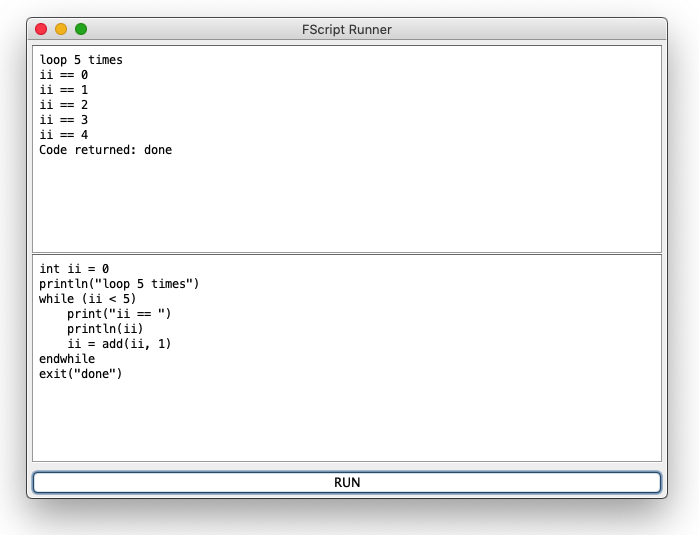
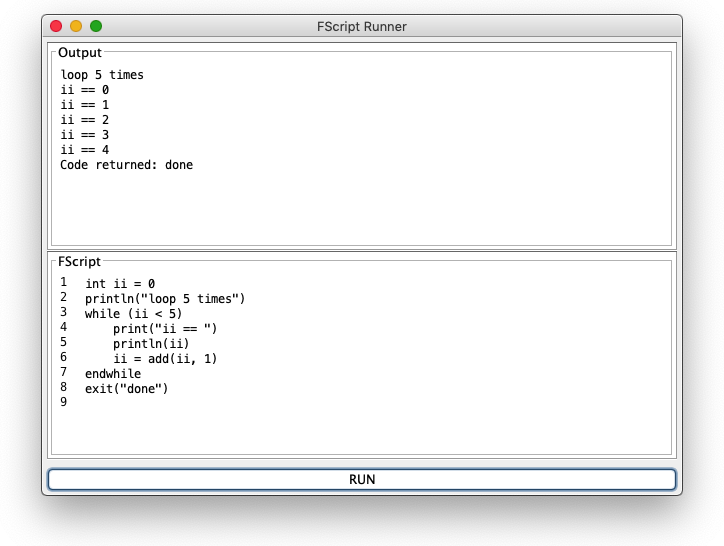
Code cleanup and some enhancements

Changed region(s): [[0.03, 0.0, 0.9614, 0.9869]]

diff --git a/src/CodeEditPane.java b/src/CodeEditPane.java
@@ -1,8 +1,6 @@
 import javax.swing.*;
-import javax.swing.text.BadLocationException;
-import javax.swing.text.DefaultEditorKit;
-import javax.swing.text.Document;
-import javax.swing.text.PlainDocument;
+import javax.swing.border.Border;
+import javax.swing.text.*;
 import javax.swing.undo.CannotRedoException;
 import javax.swing.undo.CannotUndoException;
 import javax.swing.undo.UndoManager;
@@ -10,6 +8,7 @@ import java.awt.*;
 import java.awt.event.ActionEvent;
 import java.awt.event.InputEvent;
 import java.awt.event.KeyEvent;
+import java.awt.image.BufferedImage;
 
 /**
  *  Simple Code Editing Text Pane with Undo and Redo
@@ -18,21 +17,83 @@ import java.awt.event.KeyEvent;
  */
 
 class CodeEditPane extends JPanel {
-  private static final int  TAB_SIZE = 4;
-  private JEditorPane       codePane;
+  private static final short  NUMBERS_WIDTH = 25;
+  private static final int    TAB_SIZE = 4;
+  private JEditorPane         codePane;
+  private Font                font = getCodeFont(12);
 
-  CodeEditPane () {
+  class NumberedEditorKit extends StyledEditorKit {
+    public ViewFactory getViewFactory () {
+      return new NumberedViewFactory();
+    }
+  }
+
+  class NumberedViewFactory implements ViewFactory {
+    public View create (Element elem) {
+      String kind = elem.getName();
+      if (kind != null)
+        if (kind.equals(AbstractDocument.ContentElementName)) {
+          return new LabelView(elem);
+        } else if (kind.equals(AbstractDocument.ParagraphElementName)) {
+          return new NumberedParagraphView(elem);
+        } else if (kind.equals(AbstractDocument.SectionElementName)) {
+          return new BoxView(elem, View.Y_AXIS);
+        } else if (kind.equals(StyleConstants.ComponentElementName)) {
+          return new ComponentView(elem);
+        } else if (kind.equals(StyleConstants.IconElementName)) {
+          return new IconView(elem);
+        }
+      // default to text display
+      return new LabelView(elem);
+    }
+  }
+
+  class NumberedParagraphView extends ParagraphView {
+    NumberedParagraphView (Element e) {
+      super(e);
+      this.setInsets((short) 0, (short) 0, (short) 0, (short) 0);
+    }
+
+    protected void setInsets (short top, short left, short bottom, short right) {
+      super.setInsets(top, (short) (left + NUMBERS_WIDTH), bottom, right);
+    }
+
+    public void paintChild (Graphics g, Rectangle r, int n) {
+      super.paintChild(g, r, n);
+      int previousLineCount = getPreviousLineCount();
+      int numberX = r.x - getLeftInset();
+      int numberY = r.y + r.height - 5;
+      g.drawString(Integer.toString(previousLineCount + n + 1), numberX, numberY);
+    }
+
+    int getPreviousLineCount () {
+      int lineCount = 0;
+      View parent = this.getParent();
+      int count = parent.getViewCount();
+      for (int i = 0; i < count; i++) {
+        if (parent.getView(i) == this) {
+          break;
+        } else {
+          lineCount += parent.getView(i).getViewCount();
+        }
+      }
+      return lineCount;
+    }
+  }
+
+  CodeEditPane (String title, boolean lineNumbers) {
     setLayout(new BorderLayout());
     codePane = new JEditorPane();
-    codePane.setBorder(BorderFactory.createEmptyBorder(5, 5, 5, 5));
-    codePane.setEditorKit(new DefaultEditorKit());
+    codePane.setContentType("text/cpp");
+    codePane.setFont(font);
+    Border outside = BorderFactory.createTitledBorder(title);
+    Border inside = BorderFactory.createEmptyBorder(5, 5, 5, 5);
+    Border border = BorderFactory.createCompoundBorder(outside, inside);
+    codePane.setBorder(border);
+    codePane.setEditorKit(lineNumbers ? new NumberedEditorKit() : new StyledEditorKit());
     JScrollPane codeScrollpane = new JScrollPane(codePane);
     add(codeScrollpane, BorderLayout.CENTER);
-    doLayout();
-    // Note: must call setContentType(), setFont() after doLayout() or no line numbers and small font
-    codePane.setContentType("text/cpp");
-    codePane.setFont(getCodeFont(12));
-    Document doc = codePane.getDocument();
+    StyledDocument doc = (StyledDocument) codePane.getDocument();
     int cmdMask = Toolkit.getDefaultToolkit().getMenuShortcutKeyMask();
     UndoManager undoManager = new UndoManager();
     doc.addUndoableEditListener(undoManager);
@@ -45,7 +106,7 @@ class CodeEditPane extends JPanel {
         try {
           undoManager.undo();
         } catch (CannotUndoException ex) {
-          ex.printStackTrace();
+          // ignore
         }
       }
     });
@@ -58,16 +119,30 @@ class CodeEditPane extends JPanel {
         try {
           undoManager.redo();
         } catch (CannotRedoException ex) {
-          ex.printStackTrace();
+          // ignore
         }
       }
     });
-    doc.putProperty(PlainDocument.tabSizeAttribute, TAB_SIZE);
+    // Setup tabs for StyledDocument
+    BufferedImage img = new BufferedImage(5, 5, BufferedImage.TYPE_INT_RGB);
+    FontMetrics fm = img.getGraphics().getFontMetrics(font);
+    int charWidth = fm.charWidth('w');
+    int tabWidth = charWidth * TAB_SIZE;
+    TabStop[] tabs = new TabStop[35];
+    for (int j = 0; j < tabs.length; j++) {
+      int tab = j + 1;
+      tabs[j] = new TabStop( tab * tabWidth );
+    }
+    TabSet tabSet = new TabSet(tabs);
+    SimpleAttributeSet attributes = new SimpleAttributeSet();
+    StyleConstants.setTabSet(attributes, tabSet);
+    int length = doc.getLength();
+    doc.setParagraphAttributes(0, length, attributes, false);
     codePane.updateUI();
     codePane.setEditable(true);
   }
 
-  static Font getCodeFont (int points) {
+  private static Font getCodeFont (int points) {
     String os = System.getProperty("os.name").toLowerCase();
     if (os.contains("win")) {
       return new Font("Consolas", Font.PLAIN, points);

diff --git a/src/FScriptRunner.java b/src/FScriptRunner.java
@@ -21,8 +21,8 @@ import java.util.prefs.Preferences;
 
 public class FScriptRunner extends JFrame {
   private transient Preferences prefs = Preferences.userRoot().node(this.getClass().getName());
-  private CodeEditPane          output = new CodeEditPane();
-  private CodeEditPane          code = new CodeEditPane();
+  private CodeEditPane          output;
+  private CodeEditPane          code;
 
   /**
    * BasicIO implements the external functiona available to the FScript Interpreter
@@ -33,12 +33,11 @@ public class FScriptRunner extends JFrame {
       switch (name) {
         case "print":
         case "println": {
-          int n;
-          StringBuilder s = new StringBuilder();
-          for (n = 0; n < param.size(); n++) {
-            s.append(param.get(n));
+          StringBuilder str = new StringBuilder();
+          for (Object obj : param) {
+            str.append(obj);
           }
-          output.appendText(s.toString() + ("println".equals(name) ? "\n" : ""));
+          output.appendText(str.toString() + ("println".equals(name) ? "\n" : ""));
           break;
         }
         case "add":
@@ -59,8 +58,8 @@ public class FScriptRunner extends JFrame {
     setLayout(new BorderLayout());
     JPanel panel = new JPanel(new GridLayout(2, 1));
     panel.setBorder(BorderFactory.createEmptyBorder(5, 5, 5, 5));
-    panel.add(output);
-    panel.add(code);
+    panel.add(output = new CodeEditPane("Output", false));
+    panel.add(code = new CodeEditPane("FScript", true));
     add(panel, BorderLayout.CENTER);
     JButton run = new JButton("RUN");
     add(run, BorderLayout.SOUTH);
@@ -72,10 +71,11 @@ public class FScriptRunner extends JFrame {
         fs.addLines(line);
       }
       try {
-        Object o = fs.runCode();
-        output.appendText("Code returned: " + o + "\n");
+        output.setText("");
+        Object ret = fs.runCode();
+        output.appendText("Code returned: " + ret + "\n");
       } catch (FSException ex) {
-        ex.printStackTrace();
+        output.appendText(ex.getMessage() + "\n");
       }
     });
     code.setText(getFile(new File("loop.script")));

diff --git a/src/murlen/util/fscriptME/Parser.java b/src/murlen/util/fscriptME/Parser.java
@@ -1130,38 +1130,41 @@ class Parser {
     error[4] = vars.toString();
     if (gVars != null) error[5] = gVars.toString();
     // then build the display string
-    int l = code.getCurLine();
-    s = "\n\t" + s + "\n\t\t at line:" + l + " ";
-    s += "\n\t\t\t  " + code.getLine(l - 2);
-    s += "\n\t\t\t  " + code.getLine(l - 1);
-    s += "\n\t\t\t> " + code.getLine(l) + " <";
-    s += "\n\t\t\t  " + code.getLine(l + 1);
-    s += "\n\t\t\t  " + code.getLine(l + 2);
-    s = s + "\n\t\t current token:" + t;
-    s = s + "\n\t\t Variable dump:" + vars;
-    if (gVars != null) {
-      s = s + "\n\t\t Globals:" + gVars;
+    int lineNum = code.getCurLine();
+    StringBuilder err = new StringBuilder(s);
+    err.append("\n\t at line: ");
+    err.append(lineNum + 1);
+    err.append(" ");
+    if (lineNum >= 2) {
+      err.append("\n\t\t  ");
+      err.append(code.getLine(lineNum - 2));
     }
-    throw new FSException(s);
+    if (lineNum >= 1) {
+      err.append("\n\t\t  ");
+      err.append(code.getLine(lineNum - 1));
+    }
+    err.append("\n\t\t> ");
+    err.append(code.getLine(lineNum));
+    err.append(" <");
+    err.append("\n\t\t  ");
+    err.append(code.getLine(lineNum + 1));
+    err.append("\n\t\t  ");
+    err.append(code.getLine(lineNum + 2));
+    err.append("\n\t current token: ");
+    err.append(t);
+    err.append("\n\t Variable dump: ");
+    err.append(vars);
+    if (gVars != null) {
+      err.append("\n\t Globals: ");
+      err.append(gVars);
+    }
+    throw new FSException(err.toString());
   }
 
   // return the error block
   String[] getError () {
     return error;
   }
-
-  // Other non SM related routines
-
-  /*
-  private boolean pComp (String s) {
-    // a compare for (String)tok.value strings - that avoids the null problem
-    if (tok.value != null) {
-      return tok.value.equals(s);
-    } else {
-      return false;
-    }
-  }
-  */
 
   // misc token access routines
   private void getNextToken () {
